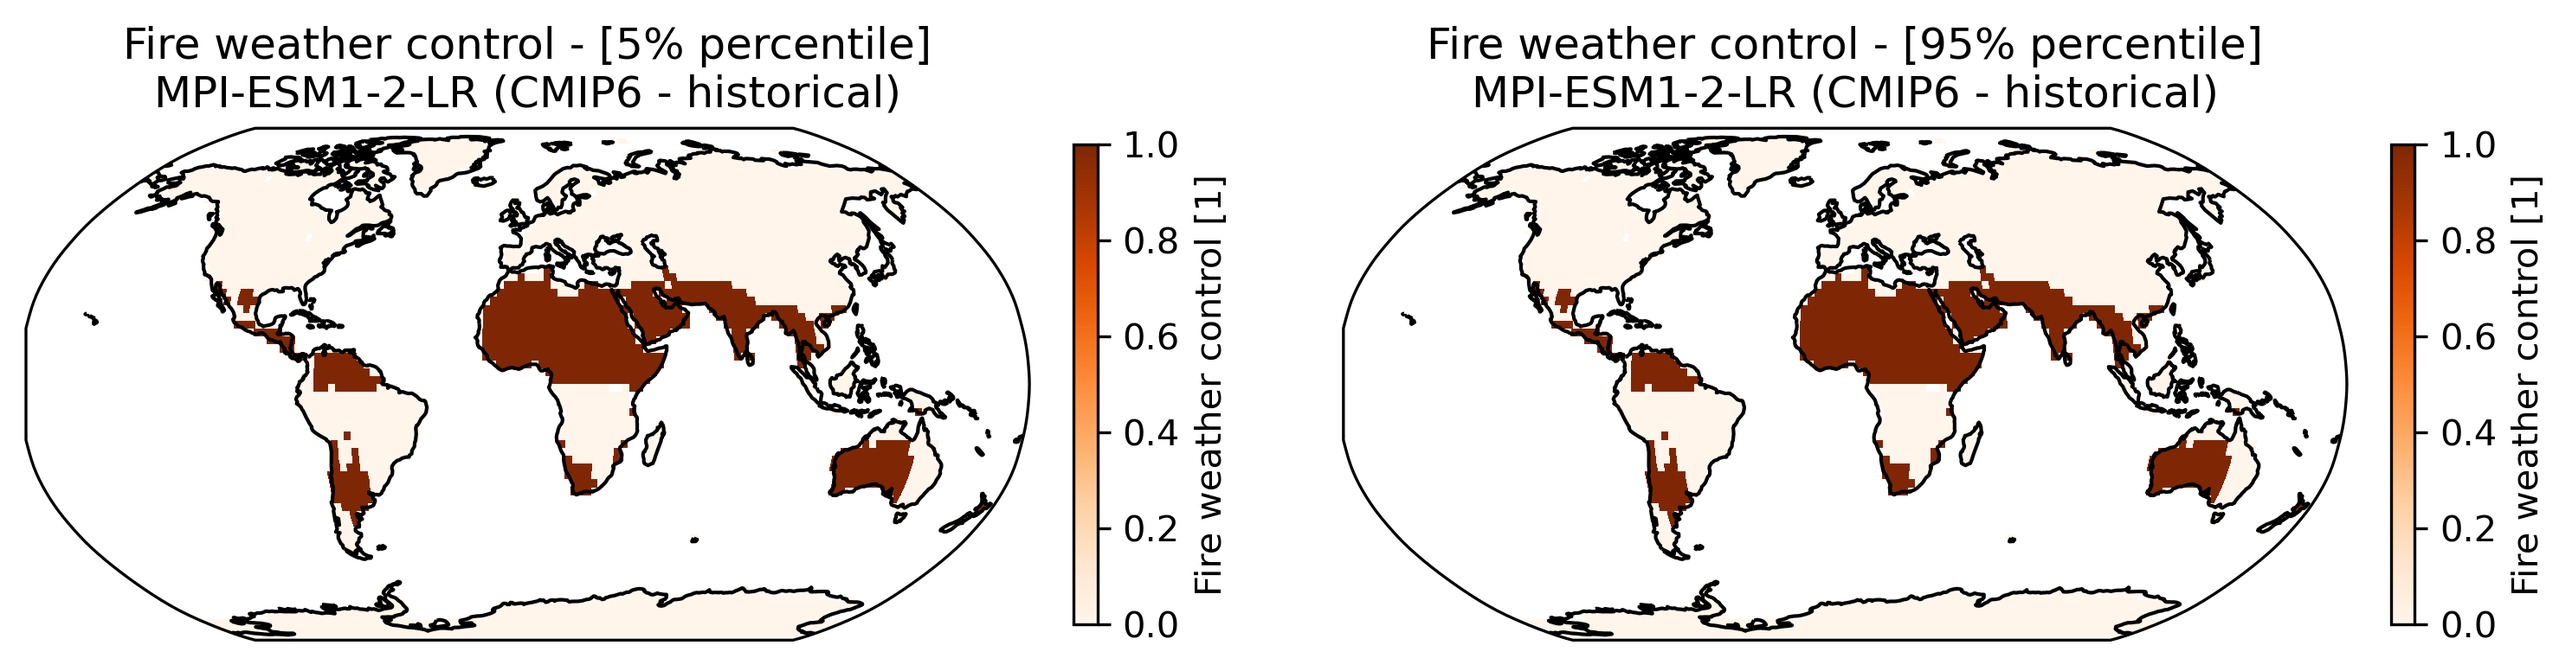
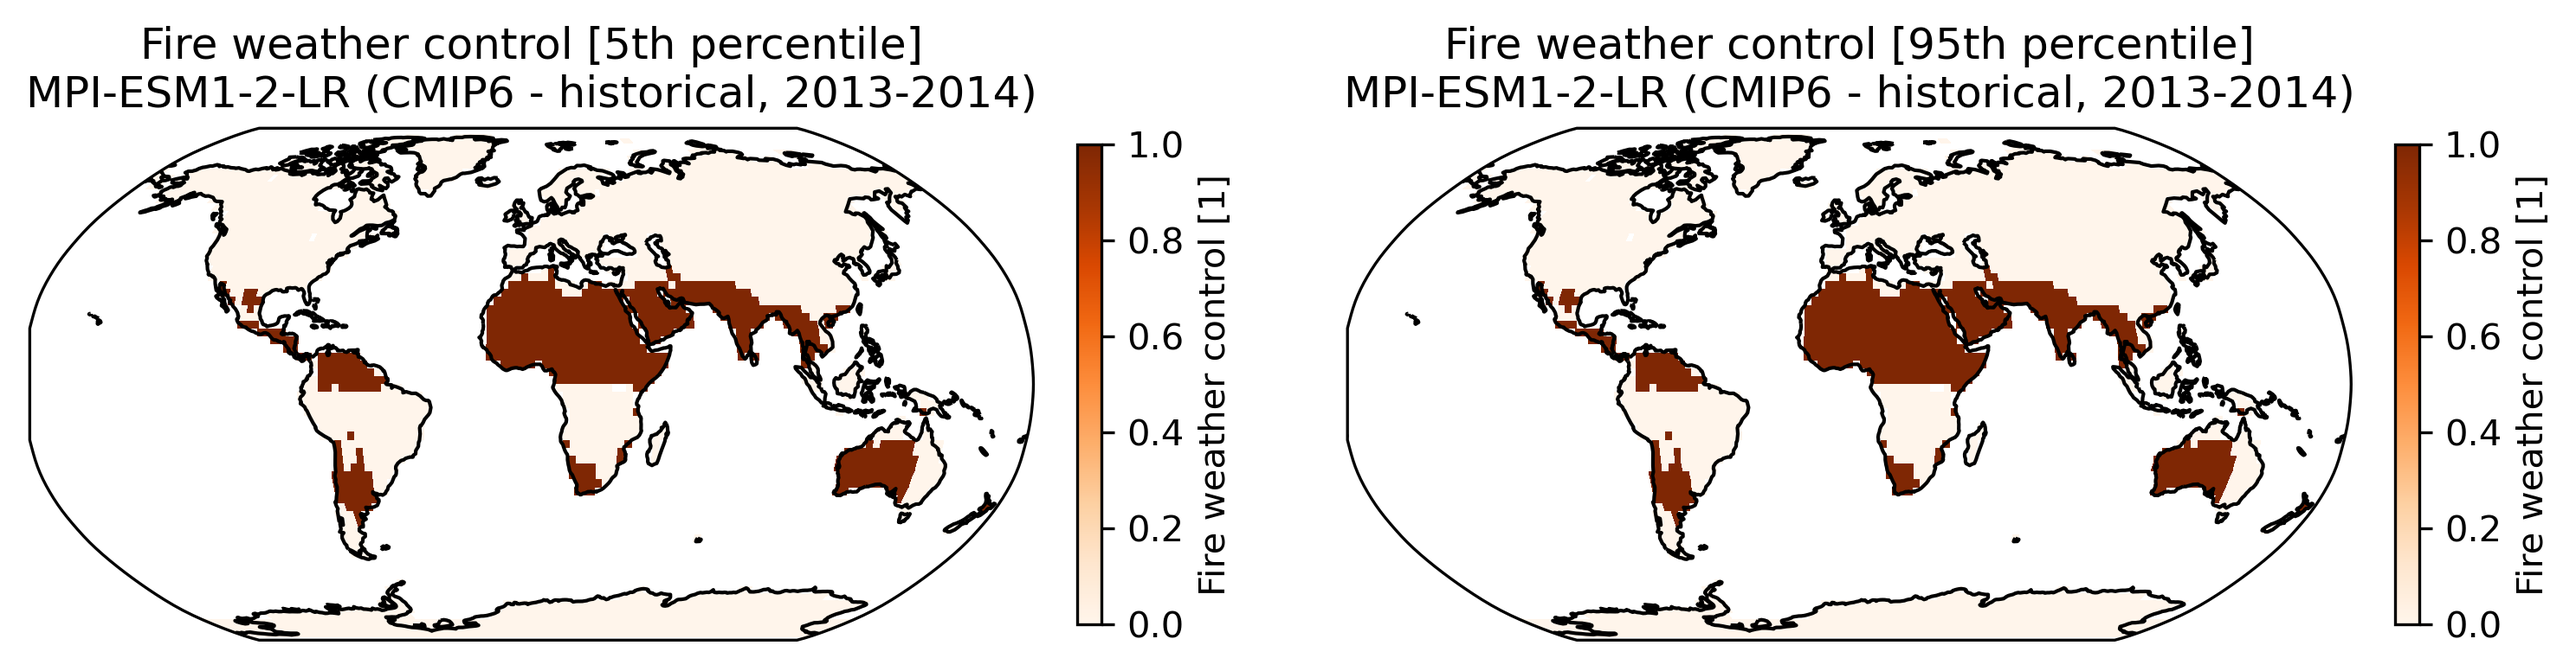
Figures legend update and small code fixes

diff --git a/esmvaltool/diag_scripts/fire/diagnostic_run_confire.py b/esmvaltool/diag_scripts/fire/diagnostic_run_confire.py
@@ -106,7 +106,6 @@ def _select_key_or_default(
     key: str,
     default: None | list | int = None,
     numpck: None | ModuleType = None,
-    *,
     stack: bool = True,
 ) -> ModuleType:
     """Select specific key from dictionary.
@@ -145,7 +144,7 @@ def _select_key_or_default(
         try:
             if stack:
                 out = numpck.stack(out)[:, 0]
-        except ValueError as expt:
+        except (ValueError, IndexError) as expt:
             logger.debug("select_key_or_default error %s", expt)
 
     return out
@@ -185,21 +184,21 @@ def _sort_time(
 
     try:
         iris.coord_categorisation.add_year(cube, "time")
-    except ValueError as expt:
+    except (ValueError, iris.exceptions.CannotAddError) as expt:
         logger.debug("_sort_time could not add year %s", expt)
 
     try:
         try:
             cube.remove_coord("month")
-        except ValueError as expt:
+        except (ValueError, iris.exceptions.CoordinateNotFoundError) as expt:
             logger.debug("_sort_time could not remove month %s", expt)
         iris.coord_categorisation.add_month_number(cube, "time", name="month")
-    except ValueError as expt:
+    except (ValueError, iris.exceptions.CannotAddError) as expt:
         logger.debug("_sort_time could not add month number %s", expt)
 
     try:
         del cube.attributes["history"]
-    except ValueError as expt:
+    except (ValueError, iris.exceptions.IrisError) as expt:
         logger.debug("_sort_time could not remove cube history %s", expt)
 
     return cube
@@ -1323,10 +1322,11 @@ def diagnostic_run_confire(
                 axes[plotn].set_title(
                     (
                         filename.replace("_", " ").capitalize()
-                        + f" - [{pct!s}% percentile]\n"
+                        + f" [{pct!s}th percentile]\n"
                         + f"{model_name} "
                         + f"({'/'.join(project)} - "
-                        + f"{'/'.join(experiment)})"
+                        + f"{'/'.join(experiment)}, "
+                        + f"{timerange})"
                     ),
                 )
                 axes[plotn].coastlines()
